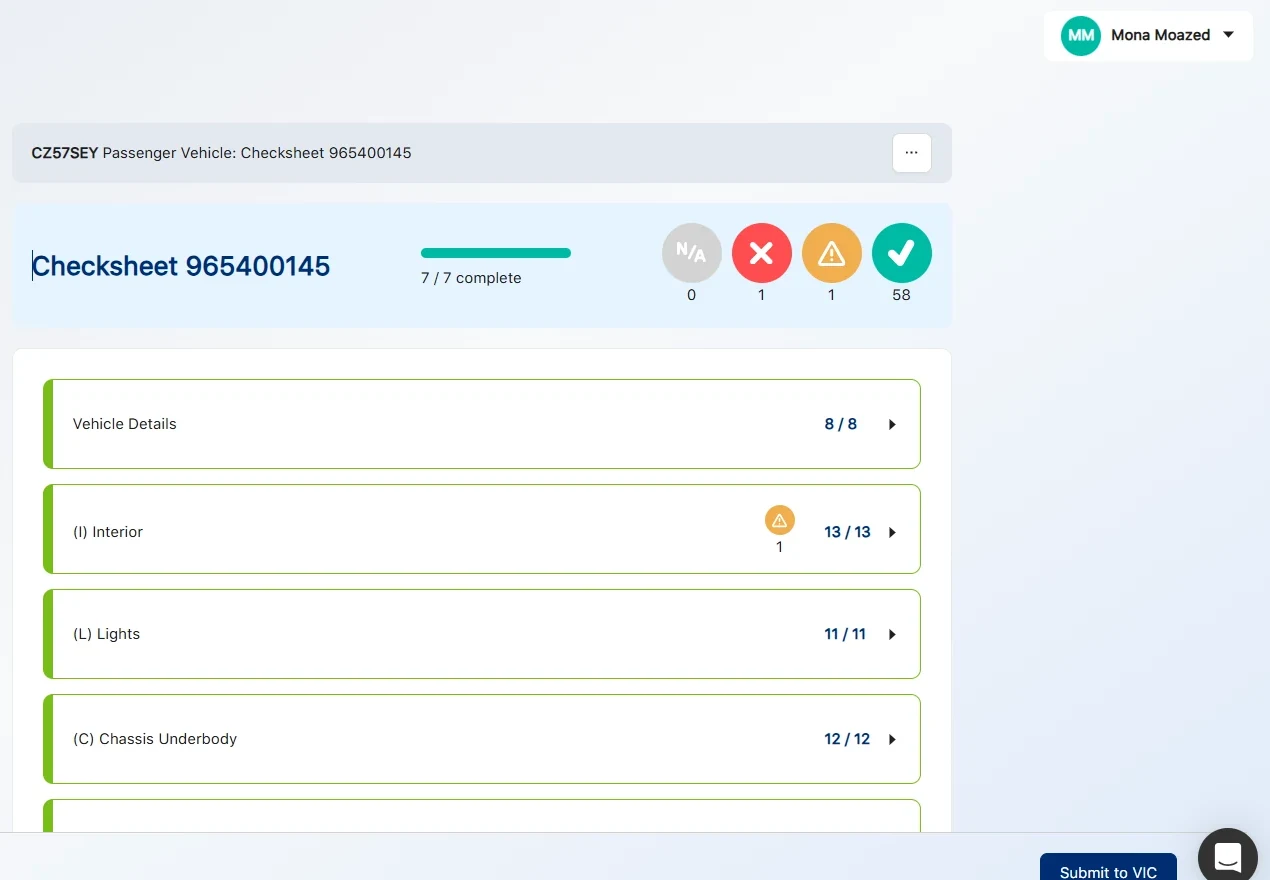
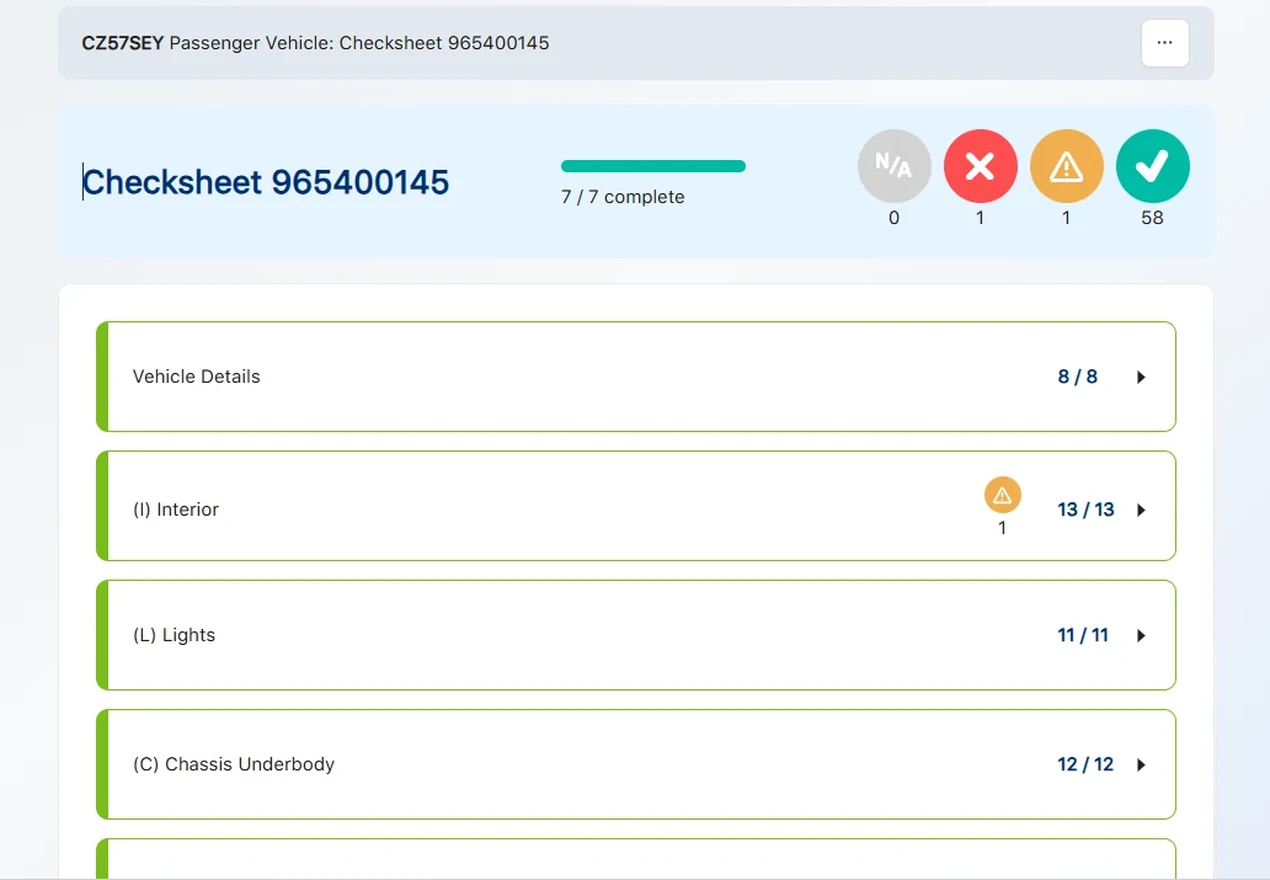
speed and UI fix

diff --git a/index.html b/index.html
@@ -3675,7 +3675,7 @@ function pageHome(){
           </div>
         </div>
         <figure class="portrait-hero">
-          <img src="${A.portrait}" alt="Mona Moazed" width="680" height="850">
+          <img src="${A.portrait}" alt="Mona Moazed" width="680" height="850" fetchpriority="high" decoding="async">
         </figure>
       </div>
       <p class="now"><b>Right now</b> I'm the only UX designer at Auxo Software, where I look after Auxo Workshop and SmartCheck Pro, and I've recently started picking up Product Owner work as well. <span class="status" style="margin-left:6px"><i></i> Open to Product Designer roles</span></p>
@@ -3733,9 +3733,9 @@ function pageHome(){
               <span class="clip-scan"></span>
             </div>
           </div>
-          <div class="cine-lap" data-k="lap"><div class="lap-screen"><img src="${A.cineLaptop}" alt=""></div><span class="lap-base"></span></div>
-          <div class="cine-tab" data-k="tab"><div class="tab-screen"><img src="${A.cineTablet}" alt=""></div></div>
-          <div class="cine-ph" data-k="ph"><div class="ph-screen"><img src="${A.cinePhone}" alt=""></div></div>
+          <div class="cine-lap" data-k="lap"><div class="lap-screen"><img src="${A.cineLaptop}" alt="" loading="lazy" decoding="async"></div><span class="lap-base"></span></div>
+          <div class="cine-tab" data-k="tab"><div class="tab-screen"><img src="${A.cineTablet}" alt="" loading="lazy" decoding="async"></div></div>
+          <div class="cine-ph" data-k="ph"><div class="ph-screen"><img src="${A.cinePhone}" alt="" loading="lazy" decoding="async"></div></div>
           <span class="cine-chip" data-in=".27" data-out=".5" style="--x:-4%;--y:6%">NZTA approved</span>
           <span class="cine-chip" data-in=".31" data-out=".5" style="--x:70%;--y:16%"><b>150+</b> customers</span>
           <span class="cine-chip" data-in=".35" data-out=".5" style="--x:58%;--y:84%"><b>70+</b> checksheets a day</span>
@@ -4058,7 +4058,7 @@ function pageCV(){
         </div>
       </div>
       <figure class="cv-photo">
-        <img src="${A.portrait}" alt="Mona Moazed" width="680" height="850">
+        <img src="${A.portrait}" alt="Mona Moazed" width="680" height="850" fetchpriority="high" decoding="async">
         <figcaption><span class="status"><i></i> Open to Product Designer roles</span><span class="cv-where">Albany, Auckland</span></figcaption>
       </figure>
     </div>
